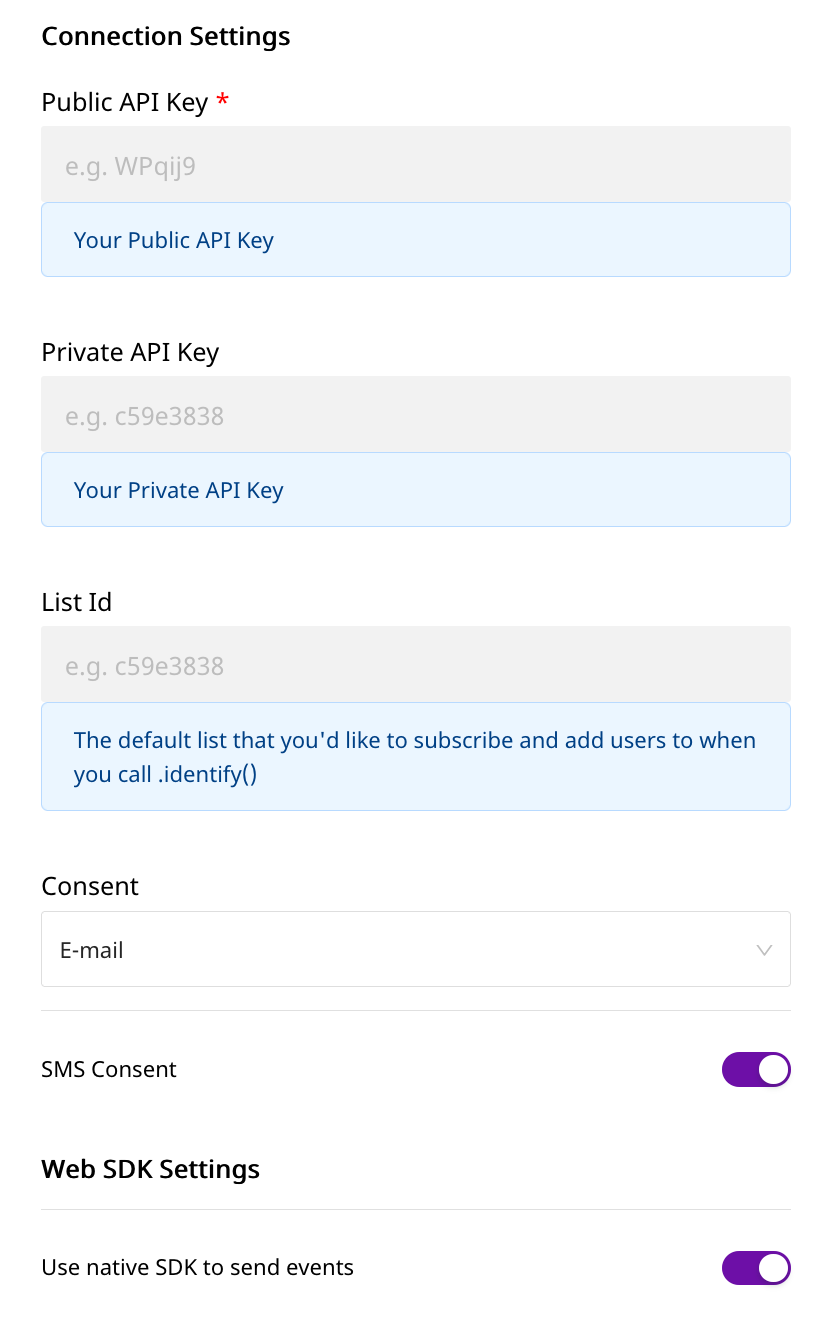
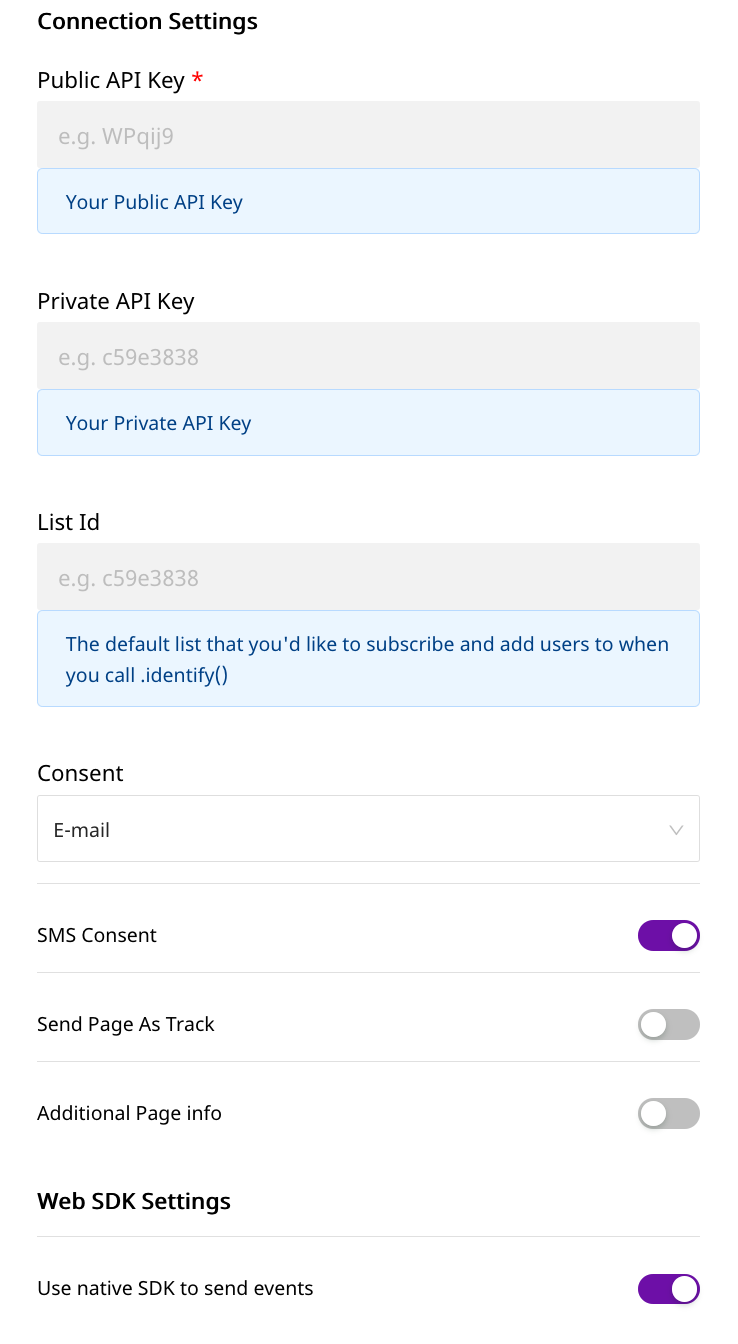
review changes

diff --git a/destinations/klaviyo.md b/destinations/klaviyo.md
@@ -33,7 +33,7 @@ Once you have confirmed that the platform supports sending events to Klaviyo, pe
 Please follow our guide on [How to Add a Source and Destination in RudderStack](https://docs.rudderstack.com/how-to-guides/adding-source-and-destination-rudderstack) to add a source and destination in RudderStack.
 {% endhint %}
 
-![Configuration Settings for ActiveCampaign](../.gitbook/assets/Klaviyo_conf.png)
+![Configuration Settings for ActiveCampaign](../.gitbook/assets/klaviyo_conf.png)
 
 ## Klaviyo Configuration Settings on the RudderStack Dashboard
 
@@ -43,7 +43,9 @@ To successfully configure Klaviyo as a destination, you will need to configure t
 - **Private API Key:** Your Private API key can be generated for your account on the **Account** section under the **Settings** tab. This key allows you to add users to list or subscribe them using personalised emails/sms.
 - **List Id:** Your default List Id to which you want to add/subscribe identified users.
 - **Consent:** If you are a GDPR-compliant business, you will need to include `consent` in your API call,`consent` is a Klaviyo-specific property and only accepts the following values: `email`, `web`, `sms`, `directmail`, and `mobile`.
-- **SMS Consent:** If you are updating the consent for a phone number, or would like to send an opt-in SMS to the profile (for double opt-in lists), include an `smsConsent` key in the properties with a value of `true` or `false`.
+- **SMS Consent:** If you are updating the consent for a phone number, or would like to send an opt-in SMS to the profile (for double opt-in lists), include an `smsConsent` key in the properties with a value of `true` or `false`
+- **Send Page As Track:** If you wish send page events as track events, along with `name` and `category` you need to enable this option.
+- **Additional Page info:** If you are sending page events as track, you can also choose to send in additional `properties` for the event by enabling this field..
 
 ## Page
 
@@ -53,21 +55,18 @@ Page call allows you track which web-page the user is viewing, take a look to un
 rudderanalytics.page();
 ```
 
-If you want to send additional info in the page evnent you can do it so by adding the `additionalInfo` key in the page event properties along with other `pageInfo` object which you want to associate with the page-view event, check out the example below.
+If you want to send `name` and `category` info in the page event you can do it so by adding the `Send Page As Track` key in the Control-Plane. If you also want to associate `properties` with the page-view event, you can do so by enabling `Additional Page info` property in Control-Plane.
 
 ```javascript
 rudderanalytics.page(
   "Cart",
   "Cart Viewed",
   {
-    additionalInfo: true,
-    pageInfo: {
-      path: "/cart",
-      referrer: "test.com",
-      search: "term",
-      title: "test_item",
-      url: "http://test.in",
-    }
+    path: "/cart",
+    referrer: "test.com",
+    search: "term",
+    title: "test_item",
+    url: "http://test.in",
   },
   () => {
     console.log("in page call");
@@ -131,14 +130,11 @@ The `track` call allows you to capture any action that the user might perform, a
 A sample `track` call looks like the following:
 
 ```javascript
-rudderanalytics.track(
-  "Checked Out",
-  {
-    Clicked_Rush_delivery_Button: true,
-    total_value: 2000,
-    Odered: ["T-Shirt", "jacket"],
-  }
-);
+rudderanalytics.track("Checked Out", {
+  Clicked_Rush_delivery_Button: true,
+  total_value: 2000,
+  Odered: ["T-Shirt", "jacket"],
+});
 ```
 
 In the above snippet, RudderStack captures the information related to the `Checked Out` event, along with any additional info about that event - in this case the name of the product.
@@ -194,7 +190,6 @@ Similar to `listId` adding `consent` and `smsConsent` property will override the
 {% hint style="info" %}
 NOTE: Adding or Subscribing users to specific list is only available in cloud-mode integration.
 {% endhint %}
-
 
 ## Group
 
